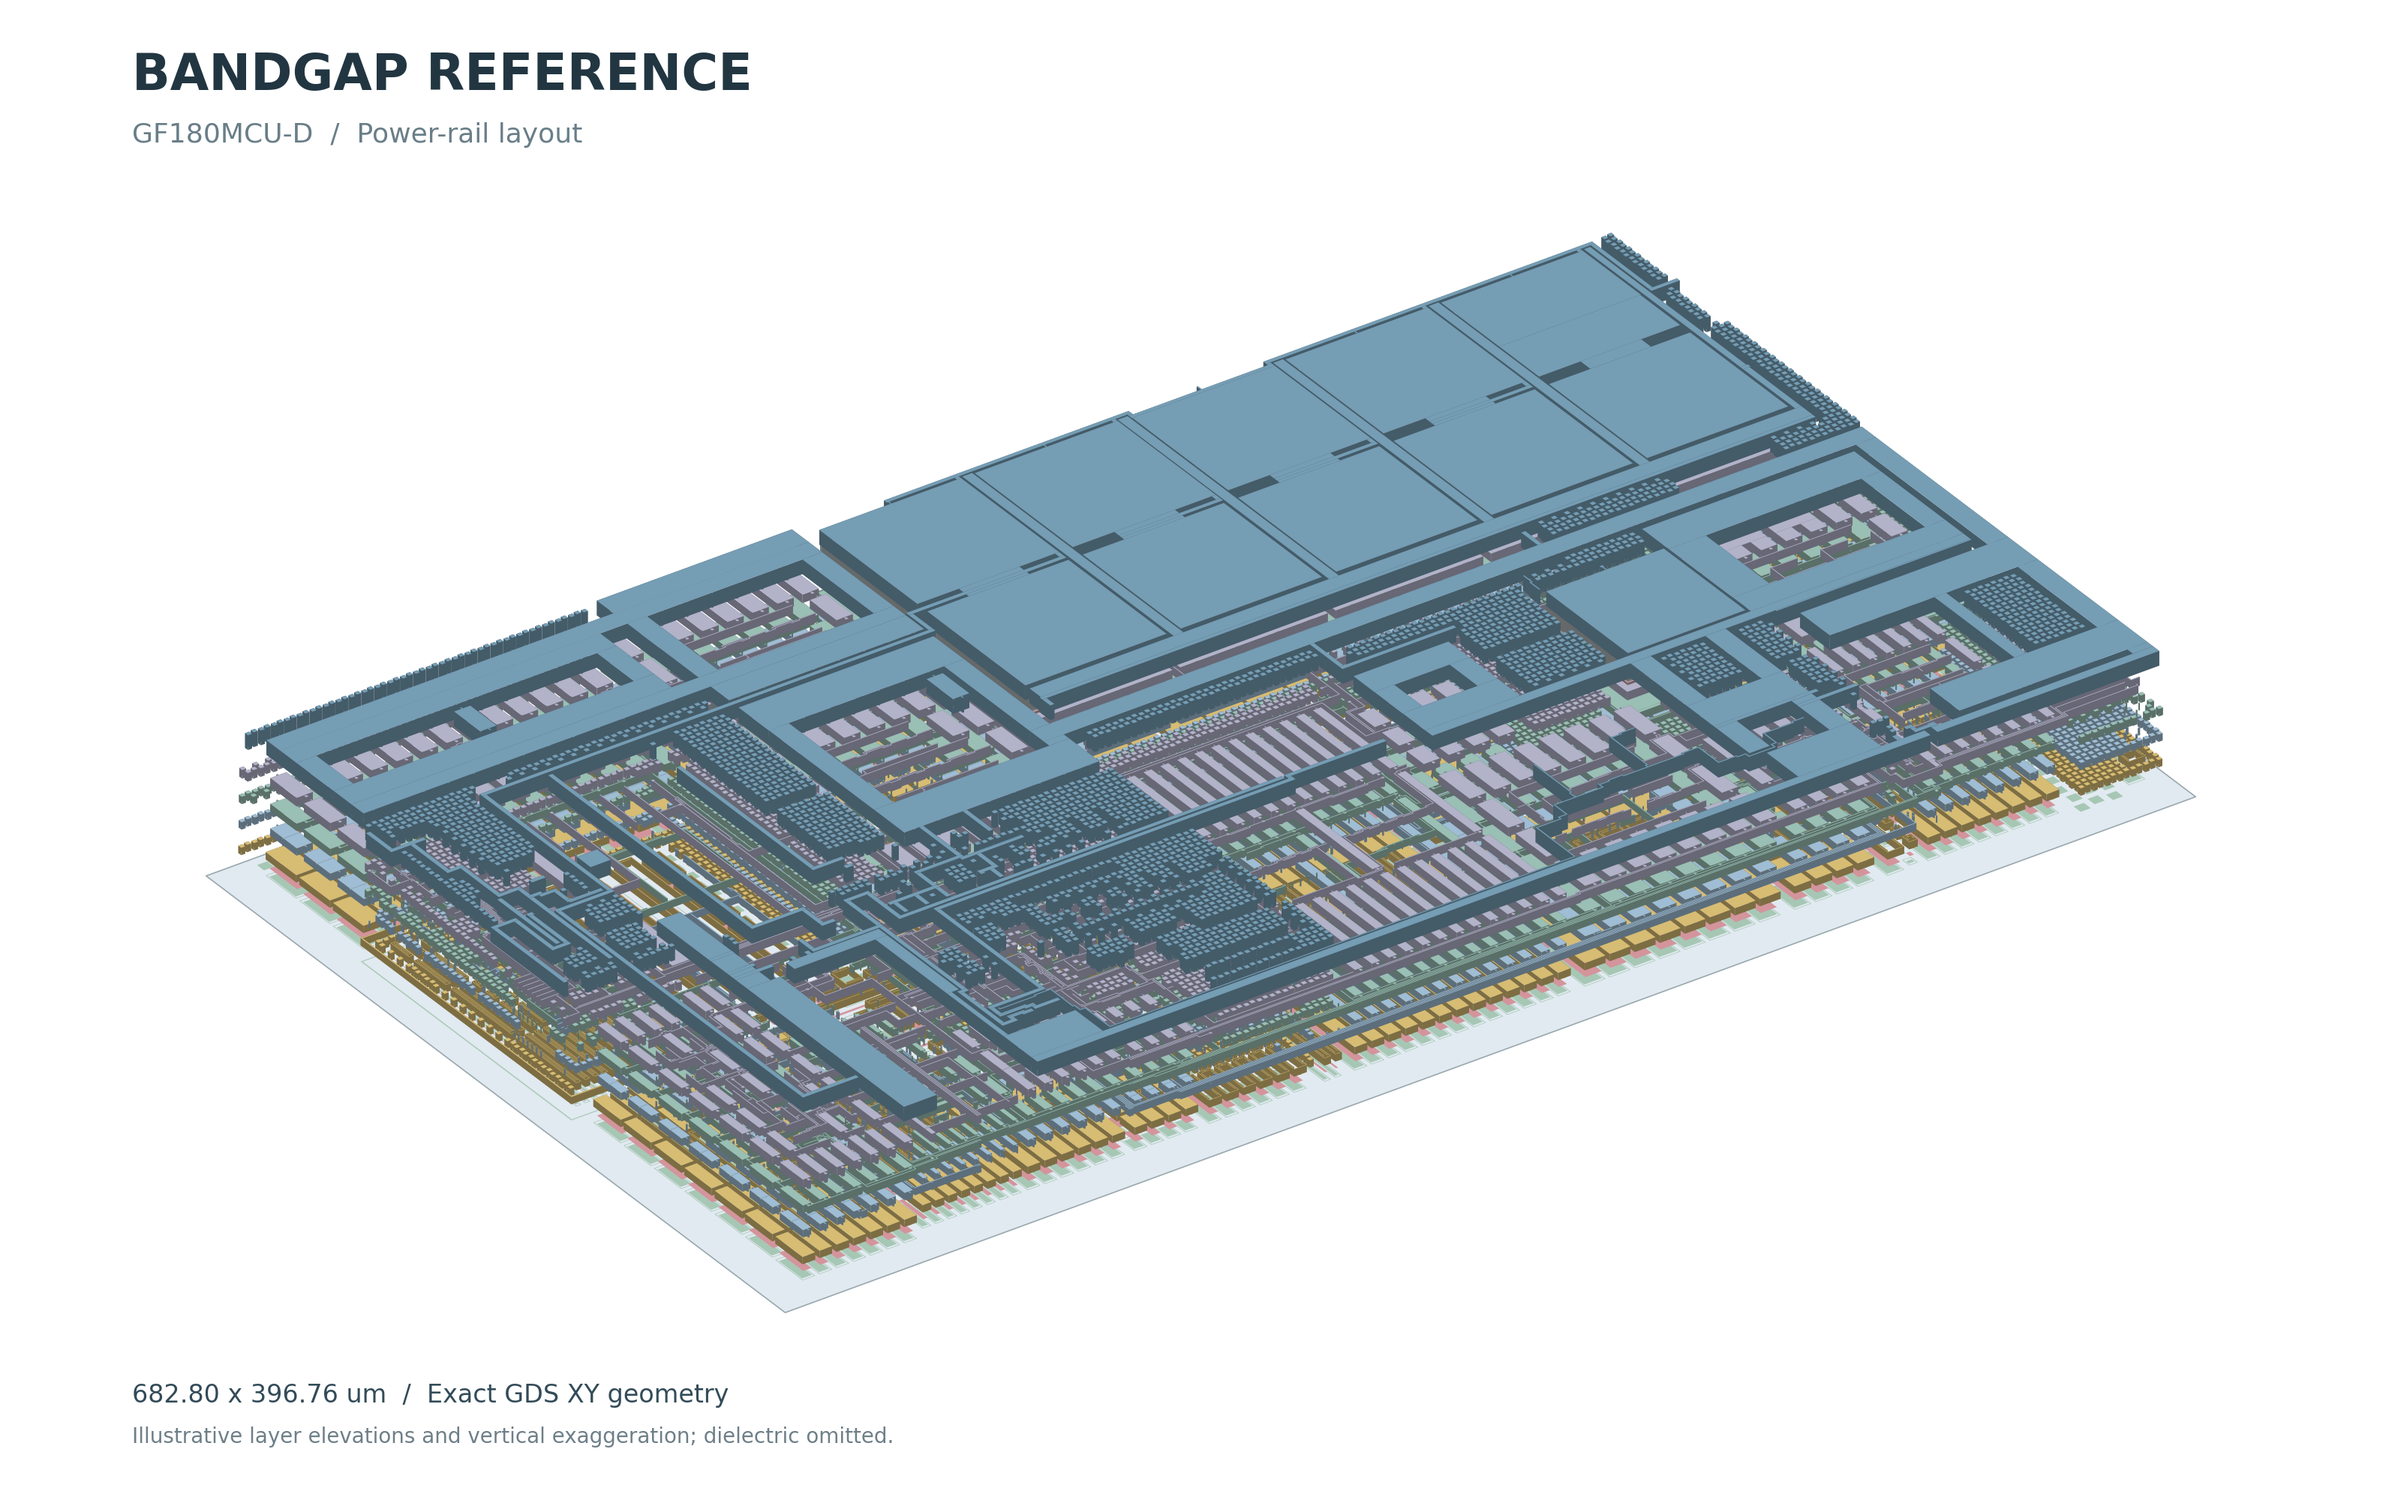
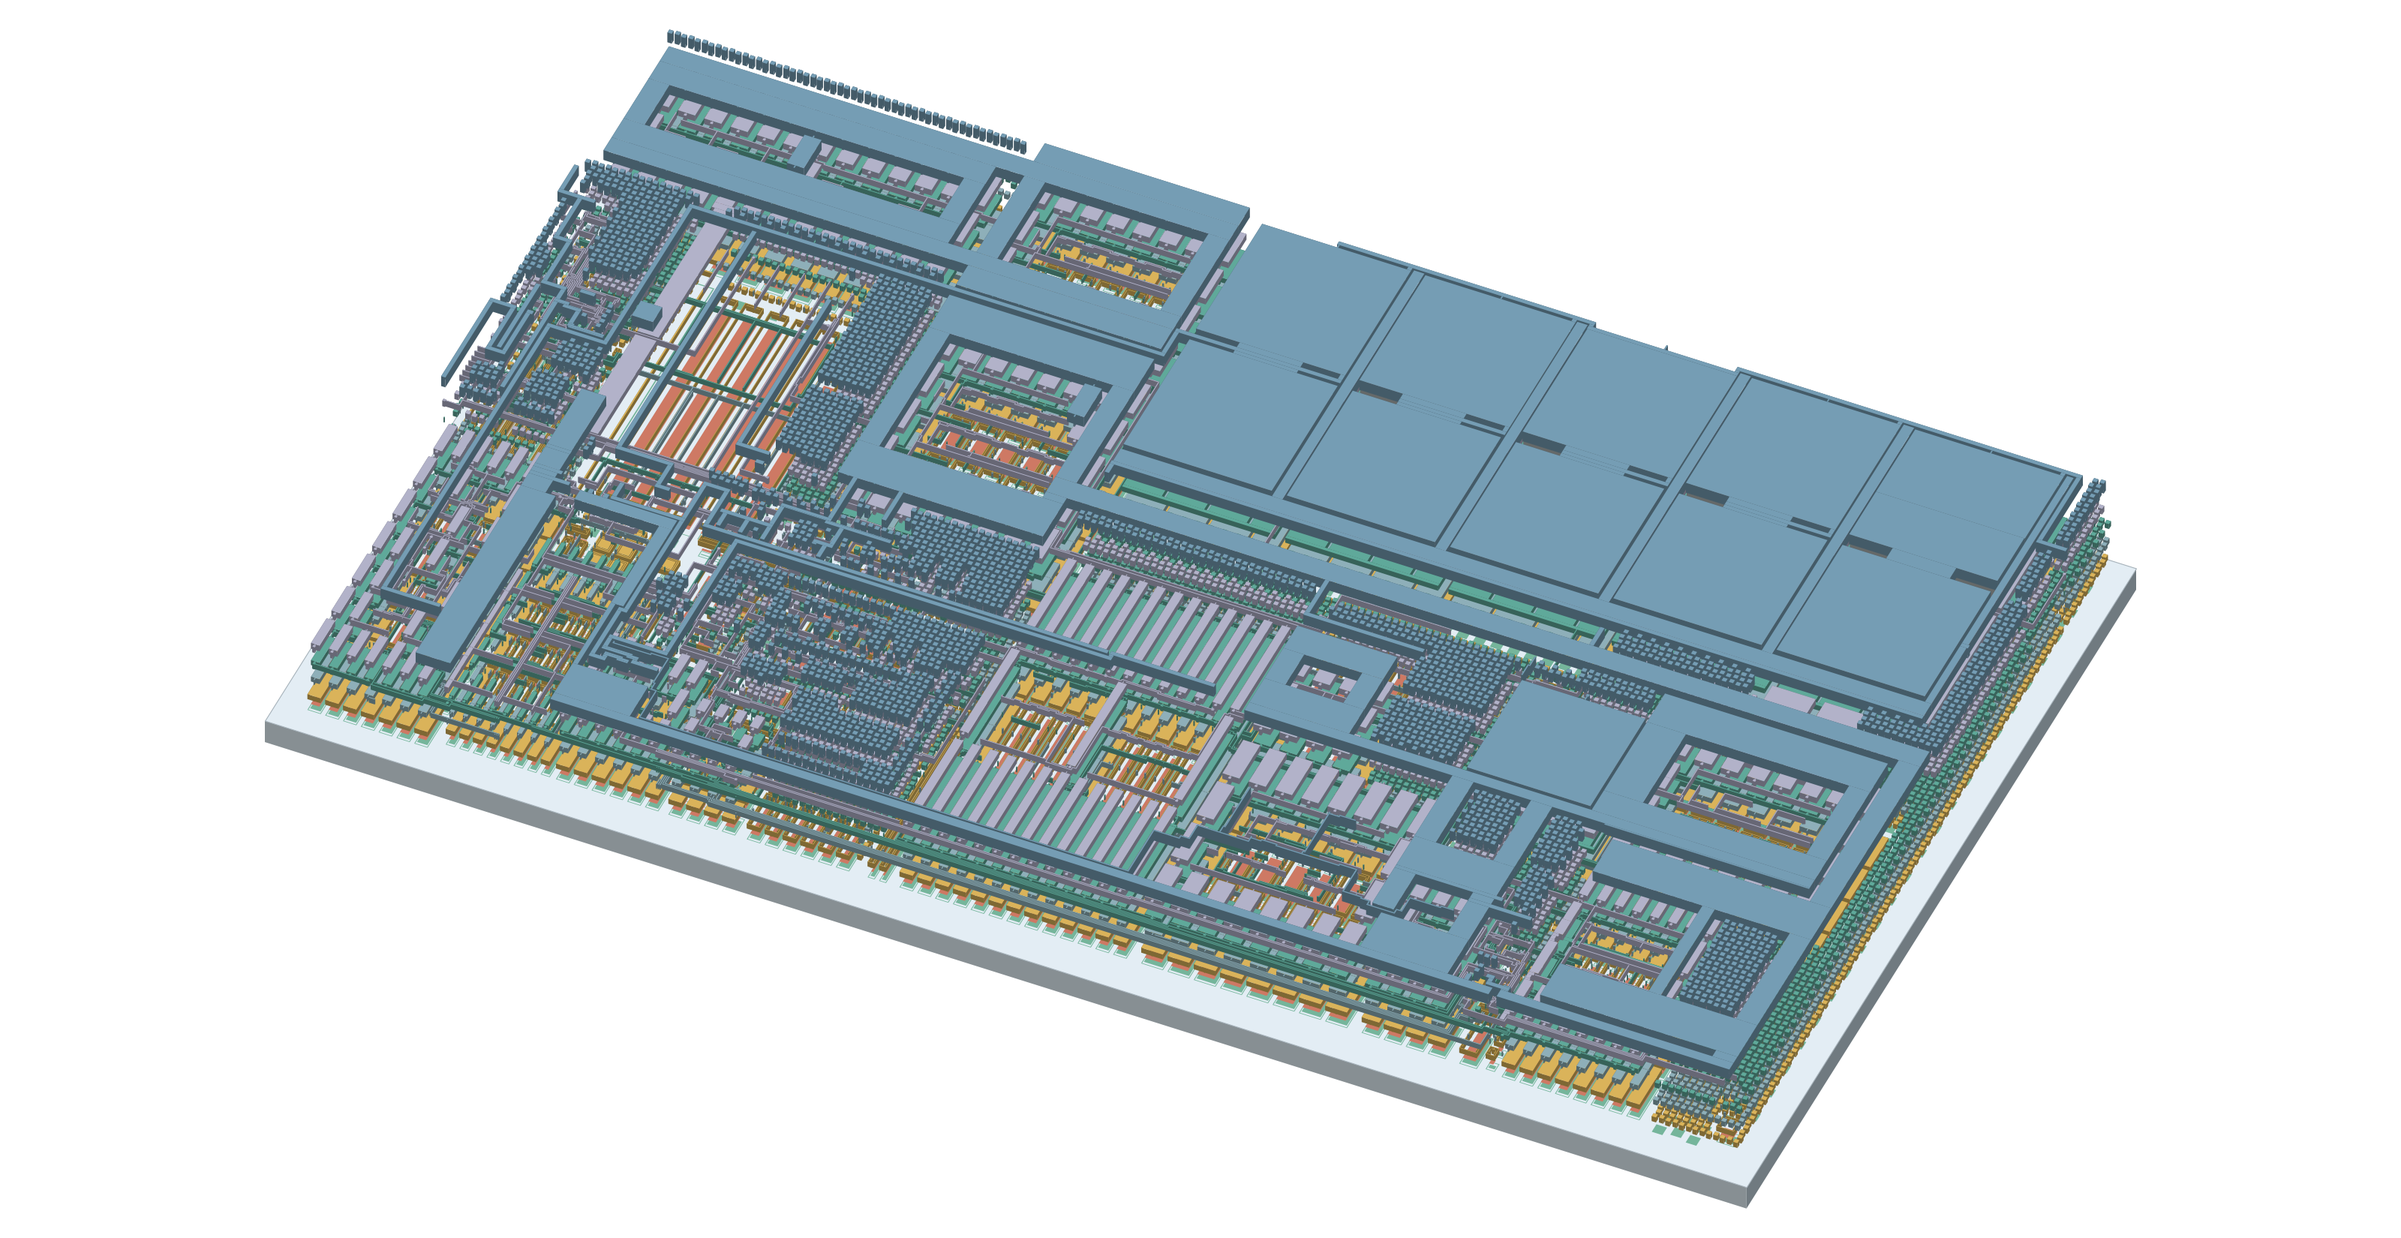
Restyle layout image to match reference and remove annotation text

diff --git a/layout/scripts/render_layout_3d.py b/layout/scripts/render_layout_3d.py
@@ -32,9 +32,16 @@ STACK = [(22, "Active", 0, .2, "#a7c7b5"), (30, "Poly", .5, .3, "#d4949c"),
          (81, "M5", 10, 1.2, "#759db4")]
 
 
+# Preview styling is separate from GLB materials and physical geometry.
+PNG_PALETTE = {"Active": "#75b59b", "Poly": "#ce7964", "M1": "#dab35a",
+               "M2": "#8eafb9", "M3": "#5fa99a"}
+
 def project(points):
     a = np.asarray(points)
-    return np.column_stack((.82*a[:, 0]-.57*a[:, 1], .30*a[:, 0]+.43*a[:, 1]+5*a[:, 2]))
+    azimuth, elevation = np.deg2rad([24, 45])
+    ca, sa, se, ce = np.cos(azimuth), np.sin(azimuth), np.sin(elevation), np.cos(elevation)
+    return np.column_stack((ca*a[:, 0]+sa*a[:, 1],
+                            -sa*se*a[:, 0]+ca*se*a[:, 1]+5*ce*a[:, 2]))
 
 
 def main():
@@ -70,11 +77,18 @@ def main():
         result = len(doc["accessors"])
         doc["accessors"].append(entry)
         return result
-    fig, ax = plt.subplots(figsize=(16, 10), facecolor="white")
+    fig, ax = plt.subplots(figsize=(16, 8.25), facecolor="white")
     ax.set_facecolor("white")
     base = [(bounds.left-8, bounds.bottom-8, -.6), (bounds.right+8, bounds.bottom-8, -.6),
             (bounds.right+8, bounds.top+8, -.6), (bounds.left-8, bounds.top+8, -.6)]
-    ax.add_collection(PolyCollection([project(base)], facecolors="#e1eaf0", edgecolors="#99a8af", linewidths=.6))
+    bottom_base = [(x, y, -3.2) for x, y, _ in base]
+    # Visible front and right faces of an illustrative support slab.
+    for i, shade in [(0, "#878f93"), (1, "#707a80")]:
+        j = i+1
+        face = [bottom_base[i], bottom_base[j], base[j], base[i]]
+        ax.add_collection(PolyCollection([project(face)], facecolors=shade, edgecolors="none"))
+    ax.add_collection(PolyCollection([project(base)], facecolors="#e3edf4",
+                                     edgecolors="#a6b2ba", linewidths=.4))
     records = []
     for number, name, z, height, color in STACK:
         region = k.Region()
@@ -128,9 +142,11 @@ def main():
         # glTF units are metres; XY is converted from micrometres, Z is
         # intentionally stretched 5x for inspection of the layer order.
         doc["nodes"].append({"name": name, "mesh": mesh, "scale": [1e-6, 1e-6, 5e-6]})
+        preview_color = PNG_PALETTE.get(name, color)
+        preview_rgb = to_rgb(preview_color)
         if sides:
-            ax.add_collection(PolyCollection(sides, facecolors=[tuple(c*.58 for c in rgb)], edgecolors="none", rasterized=True))
-        ax.add_collection(PolyCollection(roofs, facecolors=color, edgecolors="none", rasterized=True))
+            ax.add_collection(PolyCollection(sides, facecolors=[tuple(c*.58 for c in preview_rgb)], edgecolors="none", rasterized=True))
+        ax.add_collection(PolyCollection(roofs, facecolors=preview_color, edgecolors="none", rasterized=True))
         records.append({"layer": number, "name": name, "gds_area_um2": region.area()*dbu**2,
                         "selection": "outside FuseTop" if name == "V4" else "inside FuseTop" if name == "MIM top contacts" else "complete layer",
                         "mesh_projected_area_um2": area, "vertices": len(v), "triangles": len(t)//3,
@@ -138,13 +154,9 @@ def main():
         print(name, len(v), "vertices", flush=True)
     ax.autoscale_view()
     ax.set_aspect("equal")
-    ax.margins(.035)
+    ax.margins(.025)
     ax.axis("off")
-    fig.text(.055, .94, "BANDGAP REFERENCE", fontsize=24, color="#223642", weight="bold")
-    fig.text(.055, .905, "GF180MCU-D  /  Power-rail layout", fontsize=13, color="#697e88")
-    fig.text(.055, .065, f"{bounds.width():.2f} x {bounds.height():.2f} um  /  Exact GDS XY geometry", fontsize=12, color="#334b58")
-    fig.text(.055, .038, "Illustrative layer elevations and vertical exaggeration; dielectric omitted.", fontsize=10, color="#6e7f88")
-    fig.subplots_adjust(left=.02, right=.98, top=.87, bottom=.10)
+    fig.subplots_adjust(left=0, right=1, top=1, bottom=0)
     png = args.out / "bandgap-design.png"
     fig.savefig(png, dpi=200, facecolor=fig.get_facecolor())
     plt.close(fig)
